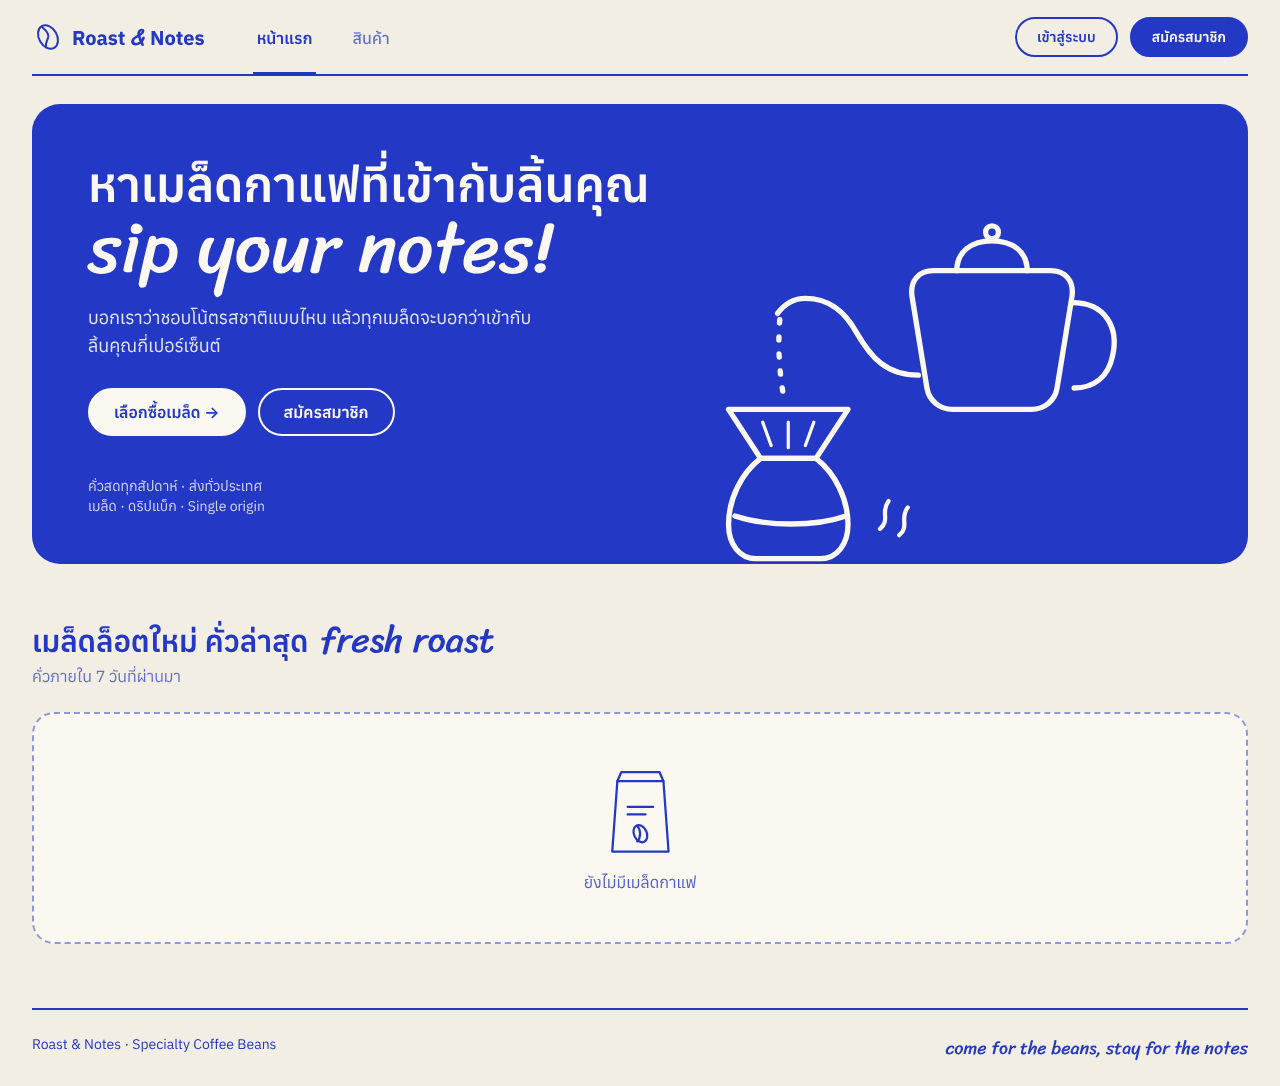
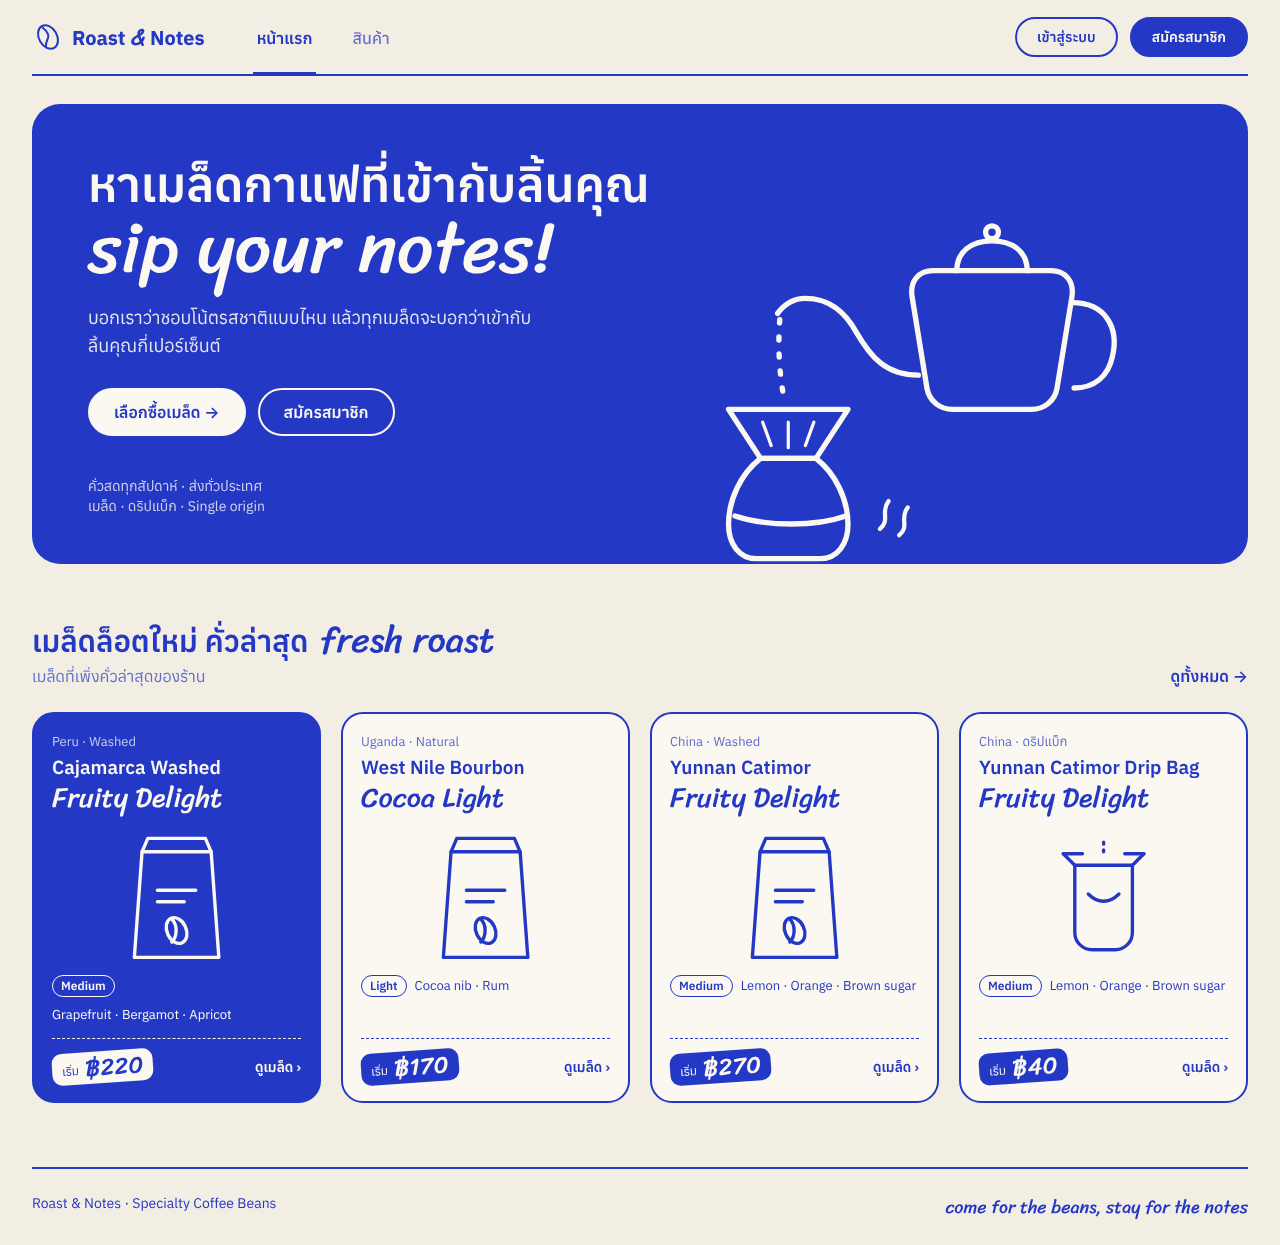
feat(catalog): fresh-roast section on home; mark catalog complete [C8, C9]
Claude-Session: https://claude.ai/code/session_01PMsyD3y1kEvcLhqVhJrZoJ

diff --git a/resources/views/home.blade.php b/resources/views/home.blade.php
@@ -18,11 +18,25 @@
             <x-illustrations.pour-over class="w-full max-w-md self-end justify-self-center text-paper" />
         </section>
 
-        {{-- Sections filled in by later modules: catalog (new lots), ordering (best sellers), taste-profile (for you) --}}
+        {{-- Still to come: best sellers (ordering) and "for you" (taste-profile) --}}
         <section id="new-lots" class="mt-14">
-            <x-page-title as="h2" script="fresh roast">{{ __('Freshly roasted lots') }}</x-page-title>
-            <p class="mt-1 mb-6 text-cobalt/70">{{ __('Roasted within the last 7 days') }}</p>
-            <x-empty-state illustration="bean-bag">{{ __('No beans yet.') }}</x-empty-state>
+            <div class="flex flex-wrap items-end justify-between gap-2">
+                <div>
+                    <x-page-title as="h2" script="fresh roast">{{ __('Freshly roasted lots') }}</x-page-title>
+                    <p class="mt-1 text-cobalt/70">{{ __('Our most recent roasts') }}</p>
+                </div>
+                <a href="{{ route('products.index', ['sort' => 'newest']) }}" class="font-semibold underline-offset-4 hover:underline">{{ __('View all') }} →</a>
+            </div>
+
+            @if ($newLots->isEmpty())
+                <x-empty-state illustration="bean-bag" class="mt-6">{{ __('No beans yet.') }}</x-empty-state>
+            @else
+                <div class="mt-6 grid gap-5 sm:grid-cols-2 lg:grid-cols-4">
+                    @foreach ($newLots as $product)
+                        <x-product-card :product="$product" :featured="$loop->first" />
+                    @endforeach
+                </div>
+            @endif
         </section>
     </div>
 </x-app-layout>

diff --git a/tests/Feature/Catalog/HomeNewLotsTest.php b/tests/Feature/Catalog/HomeNewLotsTest.php
@@ -1,0 +1,30 @@
+<?php
+
+namespace Tests\Feature\Catalog;
+
+use App\Models\Product;
+use Illuminate\Foundation\Testing\RefreshDatabase;
+use Tests\TestCase;
+
+class HomeNewLotsTest extends TestCase
+{
+    use RefreshDatabase;
+
+    public function test_home_shows_the_four_most_recently_roasted_active_products(): void
+    {
+        foreach ([3, 9, 12, 20, 30] as $days) {
+            Product::factory()->withVariants()->create(['name' => "Roasted {$days}d", 'roast_date' => now()->subDays($days)]);
+        }
+        Product::factory()->withVariants()->inactive()->create(['name' => 'Hidden Fresh', 'roast_date' => now()->subDay()]);
+
+        $response = $this->get('/')->assertOk();
+
+        $this->assertSame(['Roasted 3d', 'Roasted 9d', 'Roasted 12d', 'Roasted 20d'], $response->viewData('newLots')->pluck('name')->all());
+        $response->assertDontSee('Hidden Fresh')->assertSee(route('products.index', ['sort' => 'newest']));
+    }
+
+    public function test_home_shows_empty_state_without_products(): void
+    {
+        $this->get('/')->assertOk()->assertSee('ยังไม่มีเมล็ดกาแฟ');
+    }
+}

diff --git a/app/Http/Controllers/HomeController.php b/app/Http/Controllers/HomeController.php
@@ -1,0 +1,23 @@
+<?php
+
+namespace App\Http\Controllers;
+
+use App\Models\Product;
+use Illuminate\View\View;
+
+class HomeController extends Controller
+{
+    public function __invoke(): View
+    {
+        // Sections still to come: best sellers (ordering) and "for you" (taste-profile)
+        $newLots = Product::query()
+            ->active()
+            ->with(['origin', 'flavorNotes', 'variants'])
+            ->withMin('variants', 'price')
+            ->sorted('newest')
+            ->take(4)
+            ->get();
+
+        return view('home', ['newLots' => $newLots]);
+    }
+}

diff --git a/routes/web.php b/routes/web.php
@@ -1,11 +1,12 @@
 <?php
 
+use App\Http\Controllers\HomeController;
 use App\Http\Controllers\ProductController;
 use App\Http\Controllers\ProfileController;
 use Illuminate\Support\Facades\Route;
 
 // Public pages
-Route::view('/', 'home')->name('home');
+Route::get('/', HomeController::class)->name('home');
 Route::get('/products', [ProductController::class, 'index'])->name('products.index');
 Route::get('/products/{product:slug}', [ProductController::class, 'show'])->name('products.show');
 

diff --git a/docs/specs/SPEC-catalog.md b/docs/specs/SPEC-catalog.md
@@ -280,7 +280,7 @@ public function index(ProductFilterRequest $request): View
 2. `/products` แสดงการ์ดตาม DESIGN.md, กรอง 4 แบบ + เรียง 4 แบบ ทำงานร่วมกันและคงค่าตอนเปลี่ยนหน้า
 3. หน้าสินค้าแสดงข้อมูลล็อต, ขนาด/ราคา/สต็อก, คะแนน cupping, เมล็ดที่คล้ายกัน; slug ผิด/inactive = 404
 4. หน้าแรกแสดง 4 เมล็ดคั่วล่าสุด
-5. หน้า list ใช้ query ไม่เกิน ~6 ครั้ง (ไม่มี N+1) — ตรวจด้วยเทส `DB::getQueryLog()`
+5. หน้า list ใช้จำนวน query คงที่ไม่ว่าจะมีสินค้ากี่ชิ้น (ไม่มี N+1) — วัดจริง 8 query ของแอป + 3 ของ session — ตรวจด้วยเทส `DB::getQueryLog()`
 6. ใช้งานบนมือถือได้ (การ์ด 1 คอลัมน์, ตัวกรองเลื่อนแนวนอนได้)
 7. `sail artisan test` ผ่านทั้งหมด, `sail pint --test` สะอาด
 

diff --git a/tasks/todo.md b/tasks/todo.md
@@ -37,11 +37,11 @@
   - Verify: `tests/Feature/Catalog/ProductShowTest.php`
   - Files: `ProductController@show`, `resources/views/products/show.blade.php`, `resources/views/components/cupping-bars.blade.php`
 
-- [ ] **C8 — หน้าแรก "เมล็ดล็อตใหม่"**
+- [x] **C8 — หน้าแรก "เมล็ดล็อตใหม่"**
   - Acceptance: 4 การ์ด roast_date ล่าสุด (active) + "ดูทั้งหมด →"
   - Verify: `tests/Feature/Catalog/HomeNewLotsTest.php`
   - Files: `app/Http/Controllers/HomeController.php`, `routes/web.php`, `resources/views/home.blade.php`
 
-- [ ] **C9 — Checkpoint**
+- [x] **C9 — Checkpoint**
   - Acceptance: Success Criteria 1–7 ครบ, screenshot desktop/มือถือ, `pint --test` สะอาด, อัปเดต CAPABILITY-MAP + ภาพใน `docs/design/`
   - Verify: ไล่ทีละข้อ + `sail artisan test`

diff --git a/docs/specs/CAPABILITY-MAP.md b/docs/specs/CAPABILITY-MAP.md
@@ -49,8 +49,9 @@ foundation → catalog → ordering → taste-profile → promotions → loyalty
 | Module id | Spec | Plan/Tasks | Implement |
 |---|---|---|---|
 | foundation | ✅ อนุมัติ | ✅ อนุมัติ | ✅ เสร็จ (51 tests ผ่าน) |
-| catalog | ✅ อนุมัติ | 📝 รอรีวิว | — |
-| ordering … sales-report | — | — | — |
+| catalog | ✅ อนุมัติ | ✅ อนุมัติ | ✅ เสร็จ (40 เมล็ด + 8 ดริปแบ็กจาก CQI) |
+| ordering | ⏭ ถัดไป | — | — |
+| taste-profile … sales-report | — | — | — |
 
 ## สมมติฐาน (แก้ได้ก่อนเขียน spec)
 

diff --git a/tasks/plan.md b/tasks/plan.md
@@ -1,6 +1,6 @@
 # Plan: catalog
 
-> อ้างอิง [docs/specs/SPEC-catalog.md](../docs/specs/SPEC-catalog.md) · หน้าตา [DESIGN.md](../docs/specs/DESIGN.md) · สถานะ: **รอรีวิว**
+> อ้างอิง [docs/specs/SPEC-catalog.md](../docs/specs/SPEC-catalog.md) · หน้าตา [DESIGN.md](../docs/specs/DESIGN.md) · สถานะ: **เสร็จแล้ว (2026-10-21)**
 > งานโมดูลก่อนหน้าอยู่ที่ `tasks/archive/`
 
 ## องค์ประกอบและลำดับ
